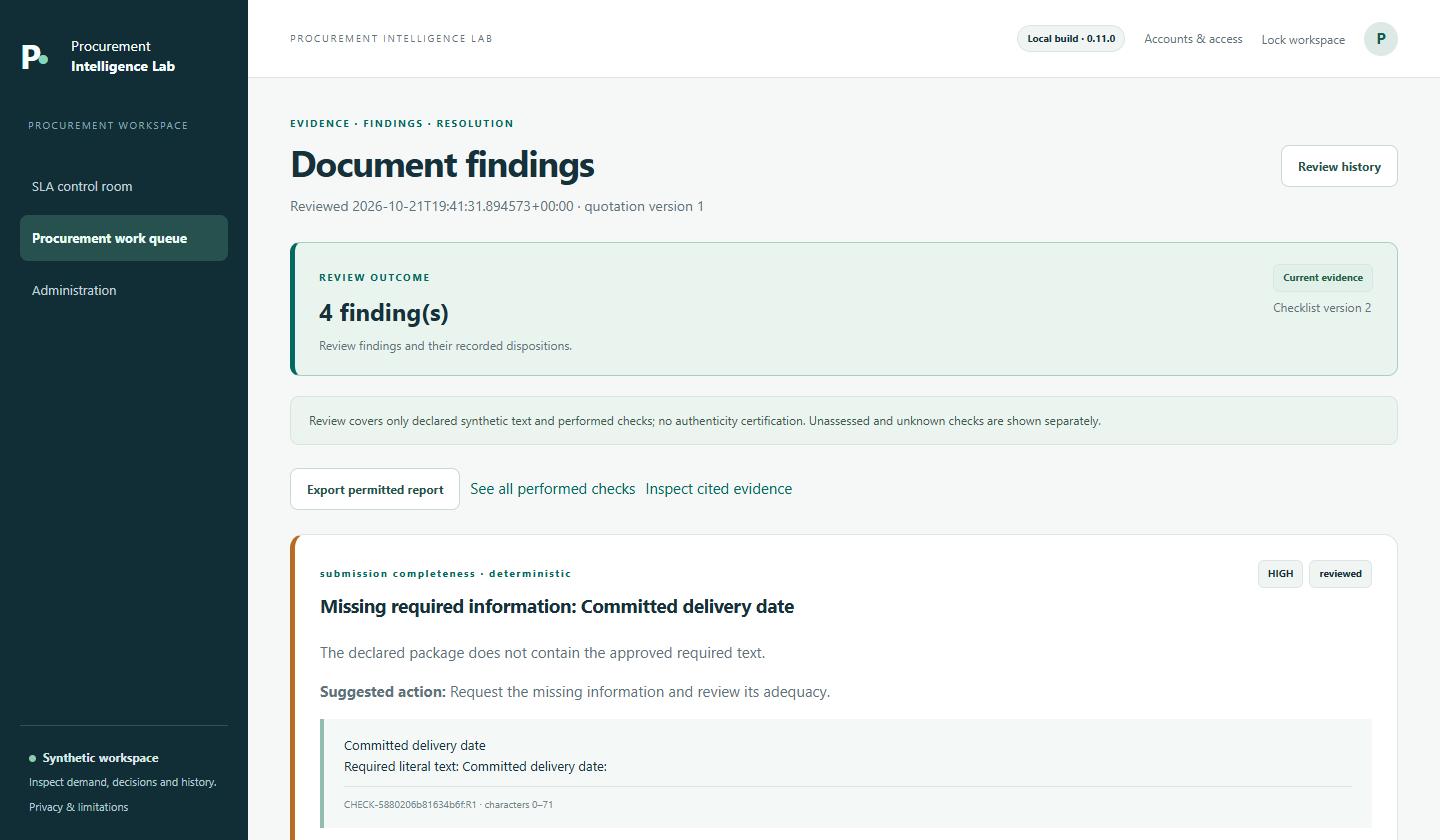
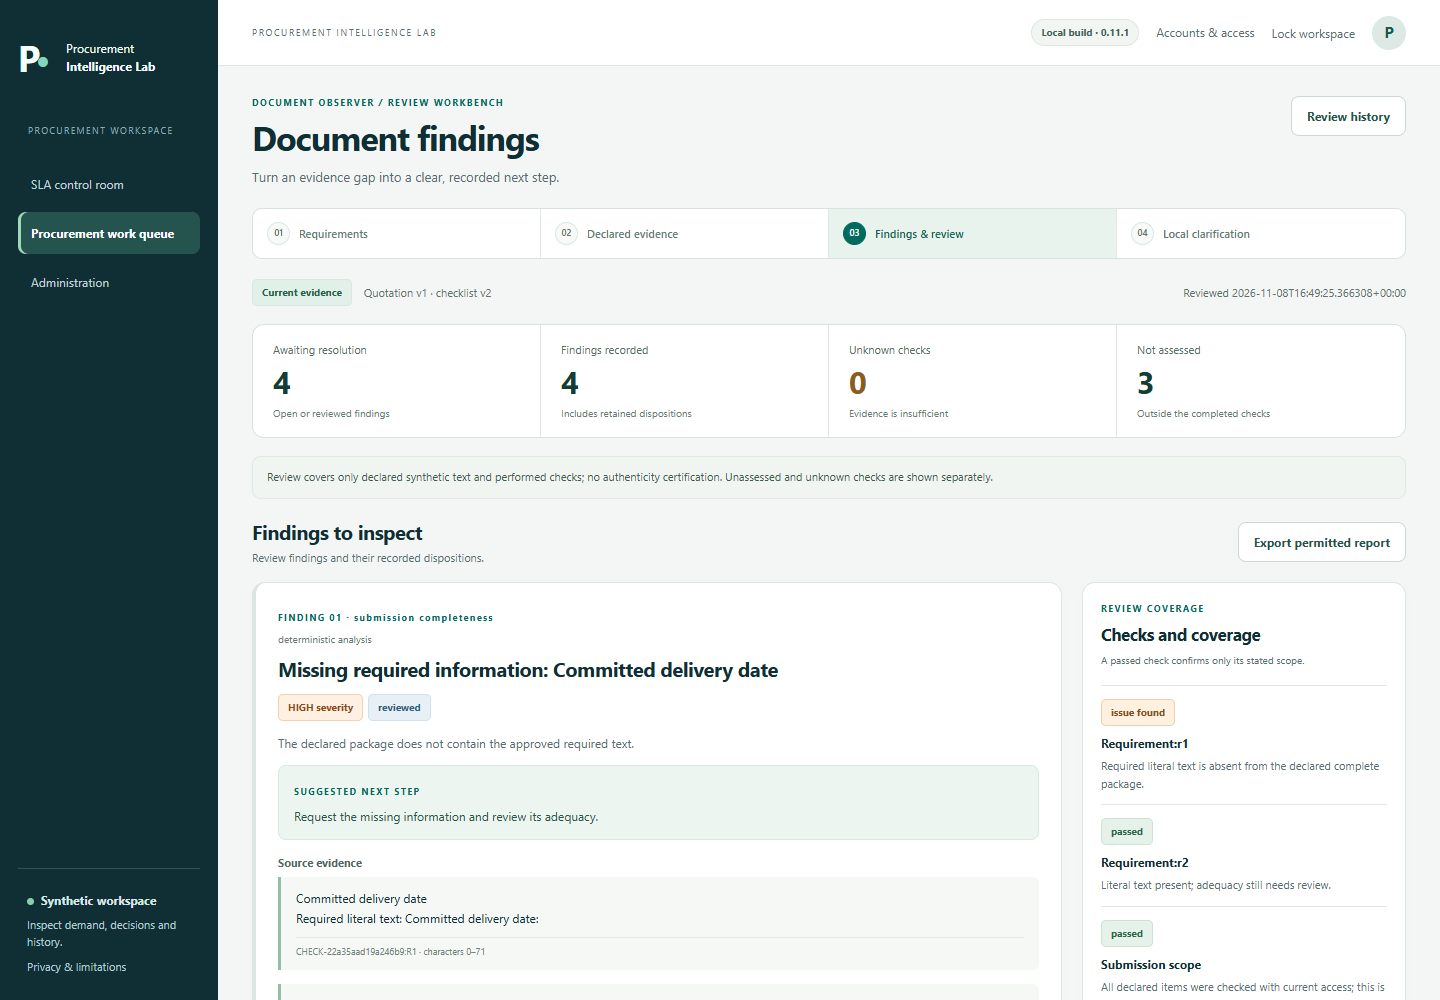
Refresh feature-control and document-review examples

diff --git a/README.md b/README.md
@@ -4,11 +4,11 @@ Public progress showcase for a procurement product being built from practical pr
 
 ## Chunk 06 - Is the document ready for evaluation?
 
-A submitted quotation may still omit a delivery commitment, contain vague terms or refer to an expired offer. Version 0.11.0 adds a Document Observer and controlled evaluation to the local synthetic workspace.
+A submitted quotation may still omit a delivery commitment, contain vague terms or refer to an expired offer. Version 0.11.0 added a Document Observer and controlled evaluation. The 0.11.1 screen refresh makes requirements, findings, evidence and human review easier to inspect in the local synthetic workspace.
 
 ![Actual Document Observer showing a missing delivery commitment, its cited requirement and a retained human review.](assets/chunk-06-document-observer.png)
 
-*Actual screenshot of local build 0.11.0, captured 21 October 2026 using disposable fictional records. The findings shown come from deterministic text checks, not generated AI output.*
+*Actual screenshot of the redesigned local build 0.11.1, captured 8 November 2026 using disposable fictional records. The findings shown come from deterministic text checks, not generated AI output.*
 
 The buyer declares a text-document package and checklist. Another approver approves that exact version. The review highlights missing required text, selected inconsistencies, vague placeholders, explicit ISO expiry dates and duplicate documents. Each finding retains its source, severity, explanation, suggested correction and human disposition. Unknown and unassessed checks remain visible; a finding does not automatically reject a supplier.
 
@@ -22,7 +22,7 @@ This first slice uses bounded synthetic text. PDF/Word parsing, scans/OCR, signa
 
 ## Chunk 05 - What happens when a feature is paused?
 
-Version 0.10.0 adds feature controls, an enhancement roadmap, release records and separate AI readiness evidence to the local synthetic workspace.
+Version 0.10.0 introduced feature controls, an enhancement roadmap, release records and separate AI readiness evidence. The 0.11.1 screen refresh brings the configuration scope, affected work and required reason into one review flow.
 
 | Choice | Effect on authorized work |
 | --- | --- |
@@ -30,9 +30,9 @@ Version 0.10.0 adds feature controls, an enhancement roadmap, release records an
 | Read only | Existing records remain readable; optional feature changes and reminder dispatch stop. |
 | Disabled for new activity | New feature work stops; permitted existing work may continue. Already reserved reminders may dispatch unless a dependency is read only. |
 
-![Actual feature administration page showing a fictional entity's sourcing module set to read only, impact preview controls and retained configuration history.](assets/chunk-05-feature-controls.png)
+![Actual feature impact preview for a fictional entity, showing a proposed change from enabled to read only, affected work and required reason before applying.](assets/chunk-05-feature-controls.png)
 
-*Actual screenshot of local build 0.10.0, captured 18 October 2026 in Asia/Dubai using disposable fictional records. The saved setting and history were created through the real forms. No message or procurement transaction was sent.*
+*Actual screenshot of local build 0.11.1, captured 8 November 2026 using disposable fictional records. This is an unapplied impact preview from the real form. The same browser check also applied the change and verified retained history. No message or procurement transaction was sent.*
 
 The owner can set global defaults. A separately authorized feature administrator can manage settings for their own entity; this role grants no access to procurement records or documents. Changes require an impact preview, a current revision and a reason. Access checks, audit history, intake and mandatory approval controls cannot be disabled. Planned modules cannot be activated before implementation.
 
@@ -40,7 +40,7 @@ Putting reminders or their scheduling dependency into read-only mode holds reser
 
 The roadmap records each enhancement's problem, scope, dependencies, acceptance criteria and evidence. Material scope changes invalidate earlier verification and value claims without deleting history. Release records require a version, exact commit and verification evidence. These are maintained local records; they are not automatically certified by the interface.
 
-AI readiness keeps five claims separate: implementation, offline tests, live-provider tests, model quality and measured business value. Missing credits can block live checks while development and offline testing continue. This increment adds governance and feature enforcement; quotation extraction remains planned, and no successful live AI generation is claimed.
+AI readiness keeps five claims separate: implementation, offline tests, live-provider tests, model quality and measured business value. Missing credits can block live checks while development and offline testing continue. The original increment added governance and feature enforcement. Bounded quotation assistance was added in 0.11.0, as described above; successful live generation, model quality and measured value remain unverified.
 
 Fewer disruptive configuration changes and clearer delivery decisions are value hypotheses to measure, not demonstrated customer outcomes.
 

diff --git a/CHANGELOG.md b/CHANGELOG.md
@@ -1,3 +1,7 @@
+## 0.11.1 — 8 November 2026
+
+Refreshed the actual administration and document-review screens and replaced their screenshots with new fictional examples from the running application. The underlying business controls and bounded text/AI scope are unchanged. Product source remains private; this repository contains only documentation and synthetic screenshots.
+
 ## 0.11.0 - 21 October 2026
 
 Added an actual synthetic Document Observer screenshot and explained local clarification, approved criteria, human evaluation and bounded AI assistance. Documented text-only scope and pending live model quality/value. Only reviewed documentation and screenshots are public; the separate post draft remains unpublished.
